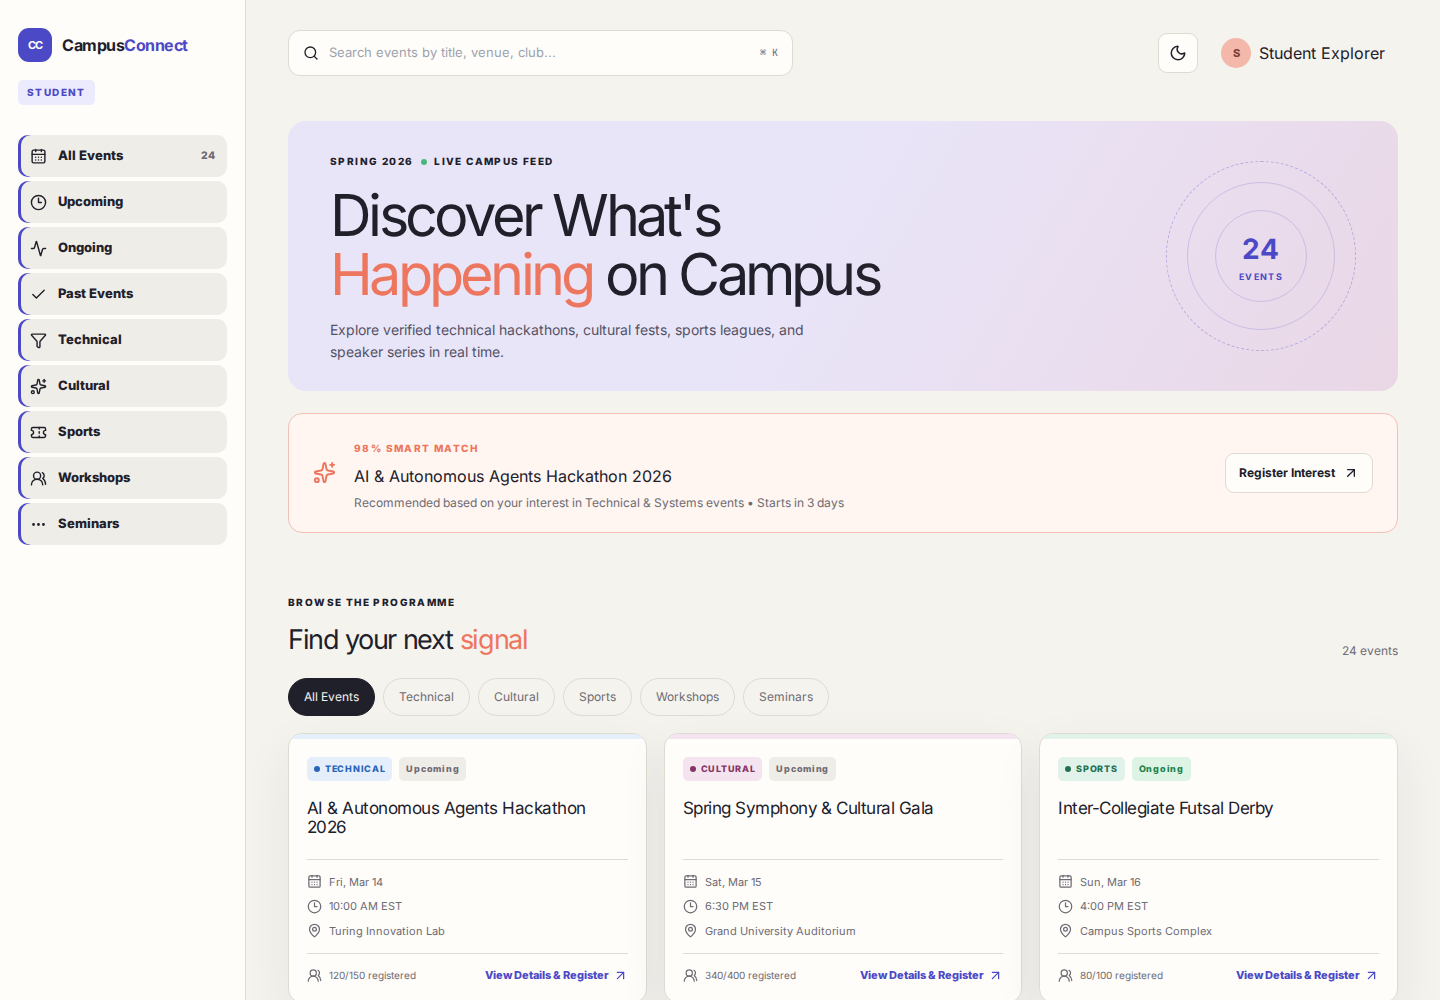
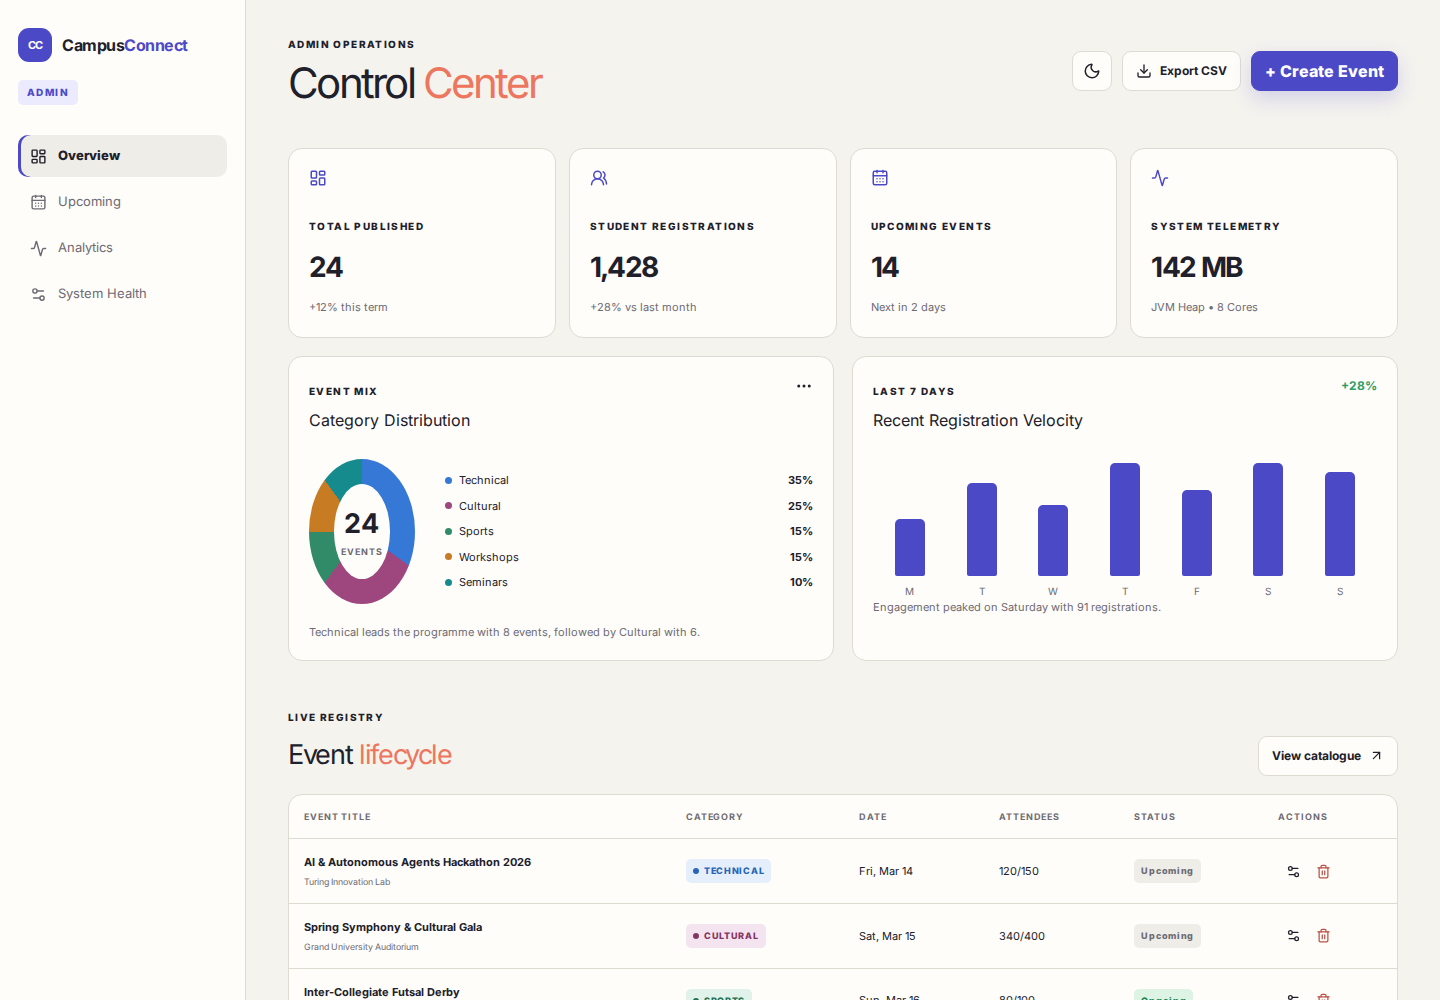
fix(frontend): honor direct route loads

diff --git a/frontend-redesign/src/App.tsx b/frontend-redesign/src/App.tsx
@@ -32,5 +32,5 @@ function Catalogue({events,open}:{events:CampusEvent[];open:(e:CampusEvent)=>voi
 function Login({success,back}:{success:()=>void;back:()=>void}){const [u,setU]=useState('');const [p,setP]=useState('');const [error,setError]=useState('');const [busy,setBusy]=useState(false);async function submit(e:React.FormEvent){e.preventDefault();setError('');if(!u||!p){setError('Enter your authorized credentials to continue.');return}setBusy(true);try{const r=await apiClient.login({username:u,password:p});if(r.success)success()}catch(err){setError(err instanceof Error&&/rate/i.test(err.message)?'Too many attempts. Please wait a moment before trying again.':'The credentials provided could not be verified. Please try again.')}finally{setBusy(false)}}return <main className="login-page"><div className="login-panel"><button className="back-link" onClick={back}>← Return to Student Event Discovery</button><Logo/><span className="eyebrow">RESTRICTED ACCESS</span><h1>CampusConnect<br/><em>Admin</em></h1><p>Enter authorized credentials to access management control plane</p><div className="security-note"><ShieldCheck size={18}/>Protected via Rate Limiting, BCrypt & Audit Logging</div><form className="login-form" onSubmit={submit}><label htmlFor="admin-username">ADMIN USERNAME</label><input id="admin-username" value={u} onChange={e=>setU(e.target.value)} autoComplete="username"/><label htmlFor="admin-password">SECURE PASSWORD</label><input id="admin-password" type="password" value={p} onChange={e=>setP(e.target.value)} autoComplete="current-password"/>{error&&<div className="form-error" role="alert"><LockKeyhole size={16}/>{error}</div>}<button className="primary-button login-submit" disabled={busy}>{busy?'Verifying…':'Sign In to Admin Console →'}</button></form></div><div className="login-aside"><span>CC / CONTROL PLANE</span><h2>Every event.<br/><em>One clear signal.</em></h2><p>Publish with confidence. Operate with context. Keep the campus in motion.</p></div></main>}
 function Admin({events,navigate}:{events:CampusEvent[];navigate:(v:View)=>void}){const [confirm,setConfirm]=useState<CampusEvent|null>(null);const del=useDeleteEvent();const registry=events.filter(e=>['Upcoming','Ongoing'].includes(e.status??'')).slice(0,5);function csv(){const blob=new Blob([apiClient.exportCsv(registry)],{type:'text/csv'});const a=document.createElement('a');a.href=URL.createObjectURL(blob);a.download='campusconnect-event-registry.csv';a.click()}return <div className="admin-wrap"><div className="admin-topbar"><div><span className="eyebrow">ADMIN OPERATIONS</span><h1>Control <em>Center</em></h1></div><div className="top-actions"><ThemeToggle/><button className="secondary-button" onClick={csv}><Download size={16}/>Export CSV</button><button className="primary-button">+ Create Event</button></div></div><div className="kpi-grid">{[['TOTAL PUBLISHED','24','+12% this term',LayoutDashboard],['STUDENT REGISTRATIONS','1,428','+28% vs last month',UsersRound],['UPCOMING EVENTS','14','Next in 2 days',CalendarDays],['SYSTEM TELEMETRY','142 MB','JVM Heap • 8 Cores',Activity]].map(([l,v,s,I])=>{const KpiIcon=I as React.ElementType;return <div className="kpi-card" key={l as string}><KpiIcon size={18}/><span className="eyebrow">{l as string}</span><strong>{v as string}</strong><small>{s as string}</small></div>})}</div><div className="charts-grid"><div className="chart-card"><div className="chart-header"><div><span className="eyebrow">EVENT MIX</span><h3>Category Distribution</h3></div><MoreHorizontal size={18}/></div><div className="donut-layout"><div className="donut"><b>24<small>EVENTS</small></b></div><div className="legend">{[['Technical','35%','blue'],['Cultural','25%','plum'],['Sports','15%','green'],['Workshops','15%','amber'],['Seminars','10%','teal']].map(x=><span key={x[0]}><i className={`legend-dot ${x[2]}`}/>{x[0]}<b>{x[1]}</b></span>)}</div></div><p className="chart-summary">Technical leads the programme with 8 events, followed by Cultural with 6.</p></div><div className="chart-card"><div className="chart-header"><div><span className="eyebrow">LAST 7 DAYS</span><h3>Recent Registration Velocity</h3></div><b className="chart-total">+28%</b></div><div className="bar-chart">{[42,68,52,84,63,91,76].map((v,i)=><div className="bar-column" key={i}><i style={{height:`${v}%`}}/><small>{['M','T','W','T','F','S','S'][i]}</small></div>)}</div><p className="chart-summary">Engagement peaked on Saturday with 91 registrations.</p></div></div><section className="registry"><div className="section-heading"><div><span className="eyebrow">LIVE REGISTRY</span><h2>Event <em>lifecycle</em></h2></div><button className="secondary-button" onClick={()=>navigate('catalogue')}>View catalogue <ArrowUpRight size={15}/></button></div><div className="table-scroll"><table><thead><tr>{['EVENT TITLE','CATEGORY','DATE','ATTENDEES','STATUS','ACTIONS'].map(h=><th key={h}>{h}</th>)}</tr></thead><tbody>{registry.map(e=><tr key={e.id}><td><b>{e.title}</b><small>{e.venue}</small></td><td><Badge category={e.category}/></td><td>{rows[e.id-1]?.[2]??'Mar 24'}</td><td>{e.registeredCount}/{e.maxCapacity}</td><td><Status status={e.status}/></td><td><button className="table-action"><Settings2 size={15}/></button><button className="table-action danger" onClick={()=>setConfirm(e)} aria-label={`Delete ${e.title}`}><Trash2 size={15}/></button></td></tr>)}</tbody></table></div></section>{confirm&&<div className="confirm-box" role="alertdialog"><div><h3>Delete this event?</h3><p>This removes “{confirm.title}” from the registry.</p></div><div><button className="secondary-button" onClick={()=>setConfirm(null)}>Cancel</button><button className="danger-button" onClick={()=>{del.mutate(confirm.id);setConfirm(null)}}>Delete event</button></div></div>}</div>}
 function Placeholder({kind,navigate}:{kind:'saved'|'profile'|'404';navigate:(v:View)=>void}){if(kind==='404')return <div className="placeholder-page error-page"><span className="error-badge">ERROR 404</span><h1>Page or Event <em>Not Found</em></h1><p>The event you requested could not be located. It may have expired, been deleted, or the URL might be mistyped.</p><button className="primary-button" onClick={()=>navigate('catalogue')}>Return to Events Catalogue <ArrowUpRight size={16}/></button><small>Need assistance? Contact Campus Support</small></div>;return <div className="placeholder-page"><span className="eyebrow">CAMPUSCONNECT</span><h1>{kind==='saved'?'Saved <em>events</em>':'Your <em>profile</em>'}</h1><p>{kind==='saved'?'Your saved programme will appear here when you bookmark an event.':'Manage your student preferences, interests, and notification settings here.'}</p><div className="empty-state"><Heart size={30}/><h3>Nothing here yet</h3><button className="text-button" onClick={()=>navigate('catalogue')}>Explore events <ArrowUpRight size={15}/></button></div></div>}
-function Content(){const [view,setView]=useState<View>('catalogue');const [selected,setSelected]=useState<CampusEvent|null>(null);const {data:remote=[]}=useEvents();const {user}=useAuth();const events=remote.length>=24?remote:showcase;const navigate=(v:View)=>{setView(v);window.history.replaceState({},'',v==='catalogue'?'/':`/${v}`)};useEffect(()=>{if(user?.role==='ROLE_ADMIN'&&view==='login')setView('admin')},[user,view]);if(view==='login')return <Login success={()=>{qc.invalidateQueries({queryKey:queryKeys.auth.me});navigate('admin')}} back={()=>navigate('catalogue')}/>;return <div className="app-shell"><Sidebar admin={view==='admin'} view={view} navigate={navigate}/><div className="main-column"><MobileChrome navigate={navigate} view={view}/><main>{view==='catalogue'&&<Catalogue events={events} open={setSelected}/>} {view==='admin'&&<Admin events={events} navigate={navigate}/>} {(view==='saved'||view==='profile'||view==='404')&&<Placeholder kind={view} navigate={navigate}/>}</main></div>{selected&&<Detail event={selected} close={()=>setSelected(null)}/>}</div>}
+function Content(){const [view,setView]=useState<View>(()=>{const path=window.location.pathname.replace(/\/$/,'');return path==='/login'?'login':path==='/admin'?'admin':path==='/saved'?'saved':path==='/profile'?'profile':path==='/404'?'404':'catalogue'});const [selected,setSelected]=useState<CampusEvent|null>(null);const {data:remote=[]}=useEvents();const {user}=useAuth();const events=remote.length>=24?remote:showcase;const navigate=(v:View)=>{setView(v);window.history.replaceState({},'',v==='catalogue'?'/':`/${v}`)};useEffect(()=>{if(user?.role==='ROLE_ADMIN'&&view==='login')setView('admin')},[user,view]);if(view==='login')return <Login success={()=>{qc.invalidateQueries({queryKey:queryKeys.auth.me});navigate('admin')}} back={()=>navigate('catalogue')}/>;return <div className="app-shell"><Sidebar admin={view==='admin'} view={view} navigate={navigate}/><div className="main-column"><MobileChrome navigate={navigate} view={view}/><main>{view==='catalogue'&&<Catalogue events={events} open={setSelected}/>} {view==='admin'&&<Admin events={events} navigate={navigate}/>} {(view==='saved'||view==='profile'||view==='404')&&<Placeholder kind={view} navigate={navigate}/>}</main></div>{selected&&<Detail event={selected} close={()=>setSelected(null)}/>}</div>}
 export default function App(){return <QueryClientProvider client={qc}><AuthProvider><Content/></AuthProvider></QueryClientProvider>}
